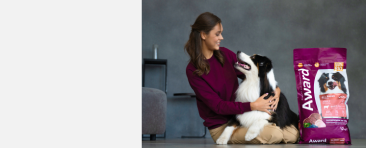
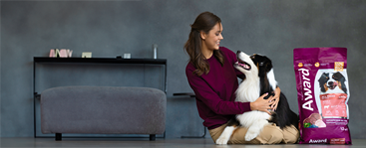
Some Fixes

diff --git a/index.html b/index.html
@@ -825,15 +825,27 @@
                 <picture class="banner__img">
                   <source
                     media="(max-width: 480px)"
-                    srcset="img/banner/banner-img-1-mob.png"
+                    srcset="
+                      img/banner/banner-img-1-mob.png    1x,
+                      img/banner/banner-img-1-mob-x2.png 2x
+                    "
+                    height="148"
                   />
                   <source
                     media="(min-width: 769px)"
-                    srcset="img/banner/banner-img-1-desktop.png"
+                    srcset="
+                      img/banner/banner-img-1-desktop.png    1x,
+                      img/banner/banner-img-1-desktop-x2.png 2x
+                    "
+                    height="322"
                   />
                   <source
                     media="(max-width: 768px)"
-                    srcset="img/banner/banner-img-1-tablet.png"
+                    srcset="
+                      img/banner/banner-img-1-tablet.png    1x,
+                      img/banner/banner-img-1-tablet-x2.png 2x
+                    "
+                    height="282"
                   />
                   <img src="img/banner/banner-img-1-desktop.png" alt="Баннер" />
                 </picture>
@@ -1485,15 +1497,27 @@
                 <picture class="banner-reverse__img">
                   <source
                     media="(max-width: 480px)"
-                    srcset="img/banner/banner-img-2-mob.png"
+                    srcset="
+                      img/banner/banner-img-2-mob.png    1x,
+                      img/banner/banner-img-2-mob-x2.png 2x
+                    "
+                    height="148"
                   />
                   <source
                     media="(min-width: 769px)"
-                    srcset="img/banner/banner-img-2-desktop.png"
+                    srcset="
+                      img/banner/banner-img-2-desktop.png    1x,
+                      img/banner/banner-img-2-desktop-x2.png 2x
+                    "
+                    height="322"
                   />
                   <source
                     media="(max-width: 768px)"
-                    srcset="img/banner/banner-img-2-tablet.png"
+                    srcset="
+                      img/banner/banner-img-2-tablet.png    1x,
+                      img/banner/banner-img-2-tablet-x2.png 2x
+                    "
+                    height="282"
                   />
                   <img src="img/banner/banner-img-2-desktop.png" alt="Баннер" />
                 </picture>
@@ -2148,15 +2172,27 @@
                 <picture class="banner__img">
                   <source
                     media="(max-width: 480px)"
-                    srcset="img/banner/banner-img-3-mob.png"
+                    srcset="
+                      img/banner/banner-img-3-mob.png    1x,
+                      img/banner/banner-img-3-mob-x2.png 2x
+                    "
+                    height="148"
                   />
                   <source
                     media="(min-width: 769px)"
-                    srcset="img/banner/banner-img-3-desktop.png"
+                    srcset="
+                      img/banner/banner-img-3-desktop.png    1x,
+                      img/banner/banner-img-3-desktop-x2.png 2x
+                    "
+                    height="322"
                   />
                   <source
                     media="(max-width: 768px)"
-                    srcset="img/banner/banner-img-3-tablet.png"
+                    srcset="
+                      img/banner/banner-img-3-tablet.png    1x,
+                      img/banner/banner-img-3-tablet-x2.png 2x
+                    "
+                    height="282"
                   />
                   <img src="img/banner/banner-img-3-desktop.png" alt="Баннер" />
                 </picture>
@@ -2776,15 +2812,27 @@
                 <picture class="banner-reverse__img">
                   <source
                     media="(max-width: 480px)"
-                    srcset="img/banner/banner-img-4-mob.png"
+                    srcset="
+                      img/banner/banner-img-4-mob.png    1x,
+                      img/banner/banner-img-4-mob-x2.png 2x
+                    "
+                    height="148"
                   />
                   <source
                     media="(min-width: 769px)"
-                    srcset="img/banner/banner-img-4-desktop.png"
+                    srcset="
+                      img/banner/banner-img-4-desktop.png    1x,
+                      img/banner/banner-img-4-desktop-x2.png 2x
+                    "
+                    height="322"
                   />
                   <source
                     media="(max-width: 768px)"
-                    srcset="img/banner/banner-img-4-tablet.png"
+                    srcset="
+                      img/banner/banner-img-4-tablet.png    1x,
+                      img/banner/banner-img-4-tablet-x2.png 2x
+                    "
+                    height="282"
                   />
                   <img src="img/banner/banner-img-4-desktop.png" alt="Баннер" />
                 </picture>
@@ -3419,11 +3467,14 @@
           <!-- /.hots__products -->
         </section>
         <!-- /.hots -->
-        <div class="main-button main-button--margin-bottom">
-          <button class="main-button__btn btn-css-clear">
-            <span class="main-button__text">Смотреть все товары</span>
-          </button>
+        <div class="container">
+          <div class="main-button main-button--margin-bottom">
+            <button class="main-button__btn btn-css-clear">
+              <span class="main-button__text">Смотреть все товары</span>
+            </button>
+          </div>
         </div>
+        <!-- /.container -->
       </section>
       <!-- /.award-products -->
     </div>
